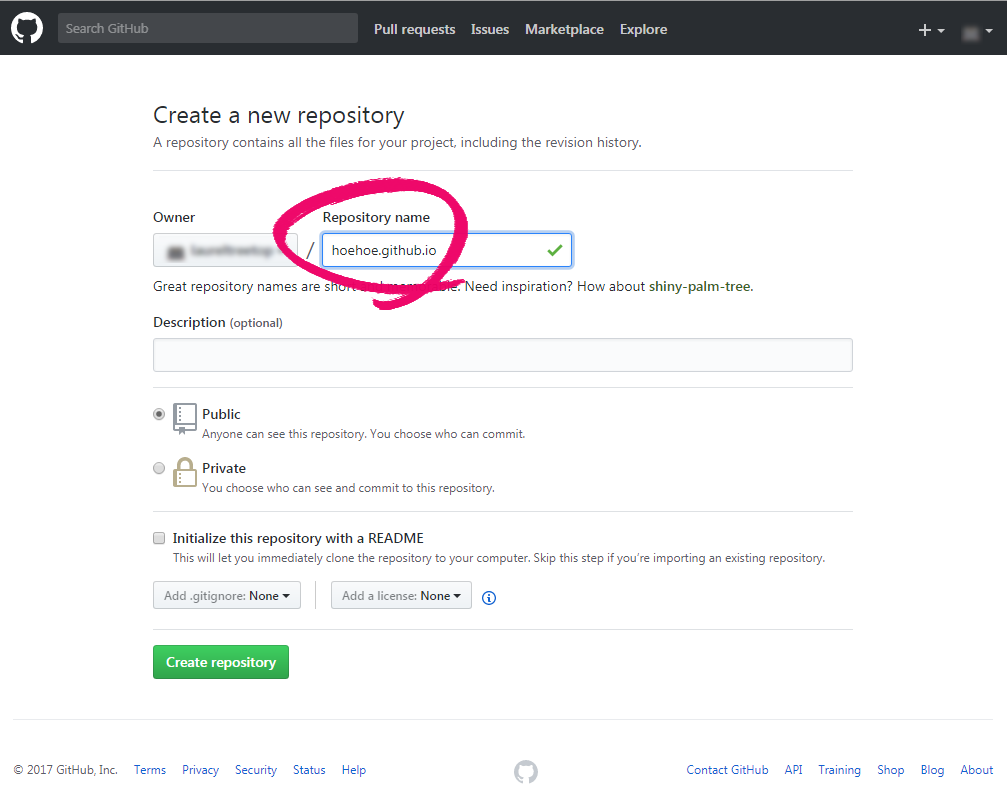
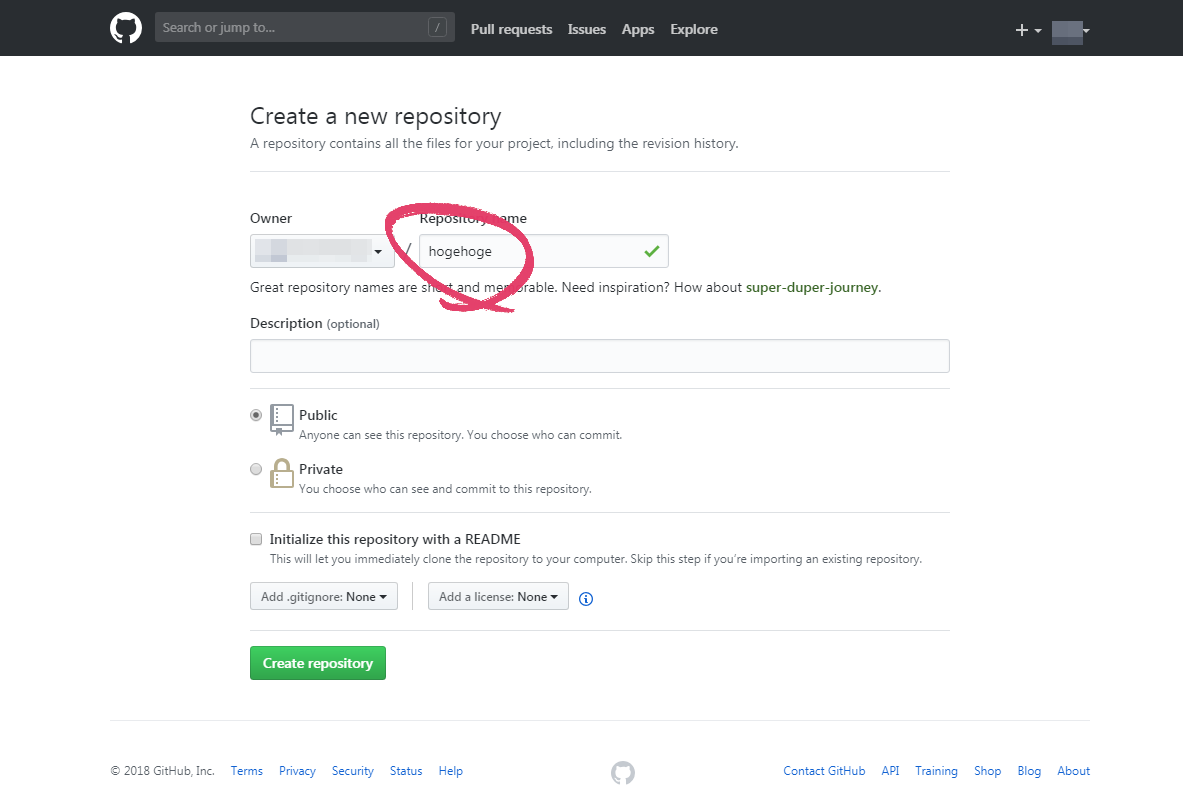
enforce https with custom domain on github

diff --git a/_githubpages/01-github.md b/_githubpages/01-github.md
@@ -11,50 +11,73 @@ classes: wide
 {{ page.description }}
 {: .notice}
 
+慌ててHTTPS対応の設定をメモったので、ドメインとリポジトリ名と画像がちぐはぐになってますが、うまく解釈してくれると~~楽、じゃなくて~~助かります。
+{: .notice--warning}
+
 ## GitHubの準備から
 [GitHub](https://github.com/)より登録。
 
 ## リポジトリを作成  
 最初からカスタムドメインで運用する前提で書きます。自分がそうだったので。   
-リポジトリ名は`hoehoe.github.io`で作成[^repogitory]。
+リポジトリ名は`hoehoe`で作成（説明画像では`hogehoge`）[^repogitory]。
 
-[^repogitory]: と、調べた限りでは書いてあったのだが、`github.io`を付けなくてもカスタムドメインは作れるっぽい?
+[^repogitory]: 古い記事だと"xxx.github.io"で作るように書いてあったのだが、"github.io"を付けなくてもカスタムドメインは作れるっぽいっていうか、作れた。
 
 [![GitHub New Repository](/assets/images/github-new-repository.png)](/assets/images/github-new-repository.png)
 
+{% comment %}
 リポジトリを作成したら、とりあえず適当なテーマを設定。
 [![GitHub Clone Repository](/assets/images/github-set-theme.png)](/assets/images/github-set-theme.png)
+{% endcomment %}
 
-手元に持ってくる。パターンはいくつかある。↓参照。
-[![GitHub Set Theme](/assets/images/github-clone.png)](/assets/images/github-clone.png)
+手元に持ってくる。パターンはいくつかある。↓参照（説明画像では`hogehoge`）。
+[![GitHub Set Theme](/assets/images/github-clone-hogehoge.png)](/assets/images/github-clone-hogehoge.png)
 
 今回は一番上の案を採用。HTTPSなりSSHなりの文字列をコピーして、`git clone`を実行。
 HTTPSパターンだとこういう感じで。
 ```shell
-$ git clone https://github.com/username/hoehoe.github.io.git
+$ git clone https://github.com/ユーザID/hoehoe.git
 ```
 SSHパターン。
 ```shell
-$ git clone git@github.com:username/hoehoe.github.io.git
+$ git clone git@github.com:ユーザID/hoehoe.git
 ```
-## DNS設定
-`hoehoe.treetop.to`なCNAMEレコードに、`hoehoe.github.io`なリポジトリ名を設定。
+## DNS設定(HTTPS対応)
+`www.hoehoe.tk`なCNAMEレコードに、`ユーザID.github.io`な値を設定。
 
-`Settings`→`GitHub Pages`→`Custom domain`に、`hoehoe.treetop.to`という感じでドメインを設定。  
-[![GitHub Custom Domain](/assets/images/github-custom-domain.png)](/assets/images/github-custom-domain.png)
+`Settings`→`GitHub Pages`→`Custom domain`に、`www.hoehoe.tk`という感じでドメインを設定。   
+[![GitHub Custom Domain](/assets/images/github-custom-domain-enforce-yet.png)](/assets/images/github-custom-domain-enforce-yet.png)  
 リポジトリにCNAMEというファイルが作成されて、その中にカスタムドメインがぴろっと書かれていたら正解。  
+`Enforce HTTPS`にチェックが付けられないのは後述。  
 
 よく行方不明になるHelpを。
 + [Setting up an apex domain](https://help.github.com/articles/setting-up-an-apex-domain/)
 + [Setting up a www subdomain](https://help.github.com/articles/setting-up-a-www-subdomain/)
 
-| name | Type  | Target            |
-|------|-------|-------------------|
-| @    | A     | 192.30.252.153    |
-| @    | A     | 192.30.252.154    |
-| www  | CNAME | ユーザID.github.io |
+あと、こういう記事も。カスタムドメインのHTTPSひゃっほー、なのです。
++ [Custom domains on GitHub Pages gain support for HTTPS](https://blog.github.com/2018-05-01-github-pages-custom-domains-https/)
 
-同じユーザIDで別リポジトリを別ドメインで立ち上げるときも、上記設定でいけるみたい。
+それを踏まえてDNSにこういう設定を。  
+CAAレコードの値は[CAA Record Helper](https://sslmate.com/caa/)で生成できる。  
+CAAレコードが使えないDNSサービスでCAA抜きで設定をしてもイケた。  
+[CNET Japanの記事](https://japan.cnet.com/release/30208036/)によると、  
+> CAAレコードが指定されていない場合は、どの認証局（CA）でも証明書を発行できます。
+<cite>2017年9月8日よりSSLサーバ証明書発行時のDNSのCAAレコードチェックが必須に - CNET Japan</cite>  
+
+ということなので、そういうことなのかな。  
+何度かセキュアじゃないという警告が出たのはそのせい?
+
+| name | Type  | Target                    |
+|------|-------|---------------------------|
+| @    | A     | 185.199.108.153           |
+| @    | A     | 185.199.109.153           |
+| @    | A     | 185.199.110.153           |
+| @    | A     | 185.199.111.153           |
+| www  | CNAME | ユーザID.github.io         |
+| www  | CAA   | 0 issue "letsencrypt.org" |
+
+これでしばらく待つと`Enforce HTTPS`にチェックを付けられるようになるので、忘れずにチェックを。
+[![GitHub Custom Domain](/assets/images/github-custom-domain-enforce-done.png)](/assets/images/github-custom-domain-enforce-done.png)
 
 ## 環境構築 on Windows 
 自分がそうなので。オレオレですみません。   
